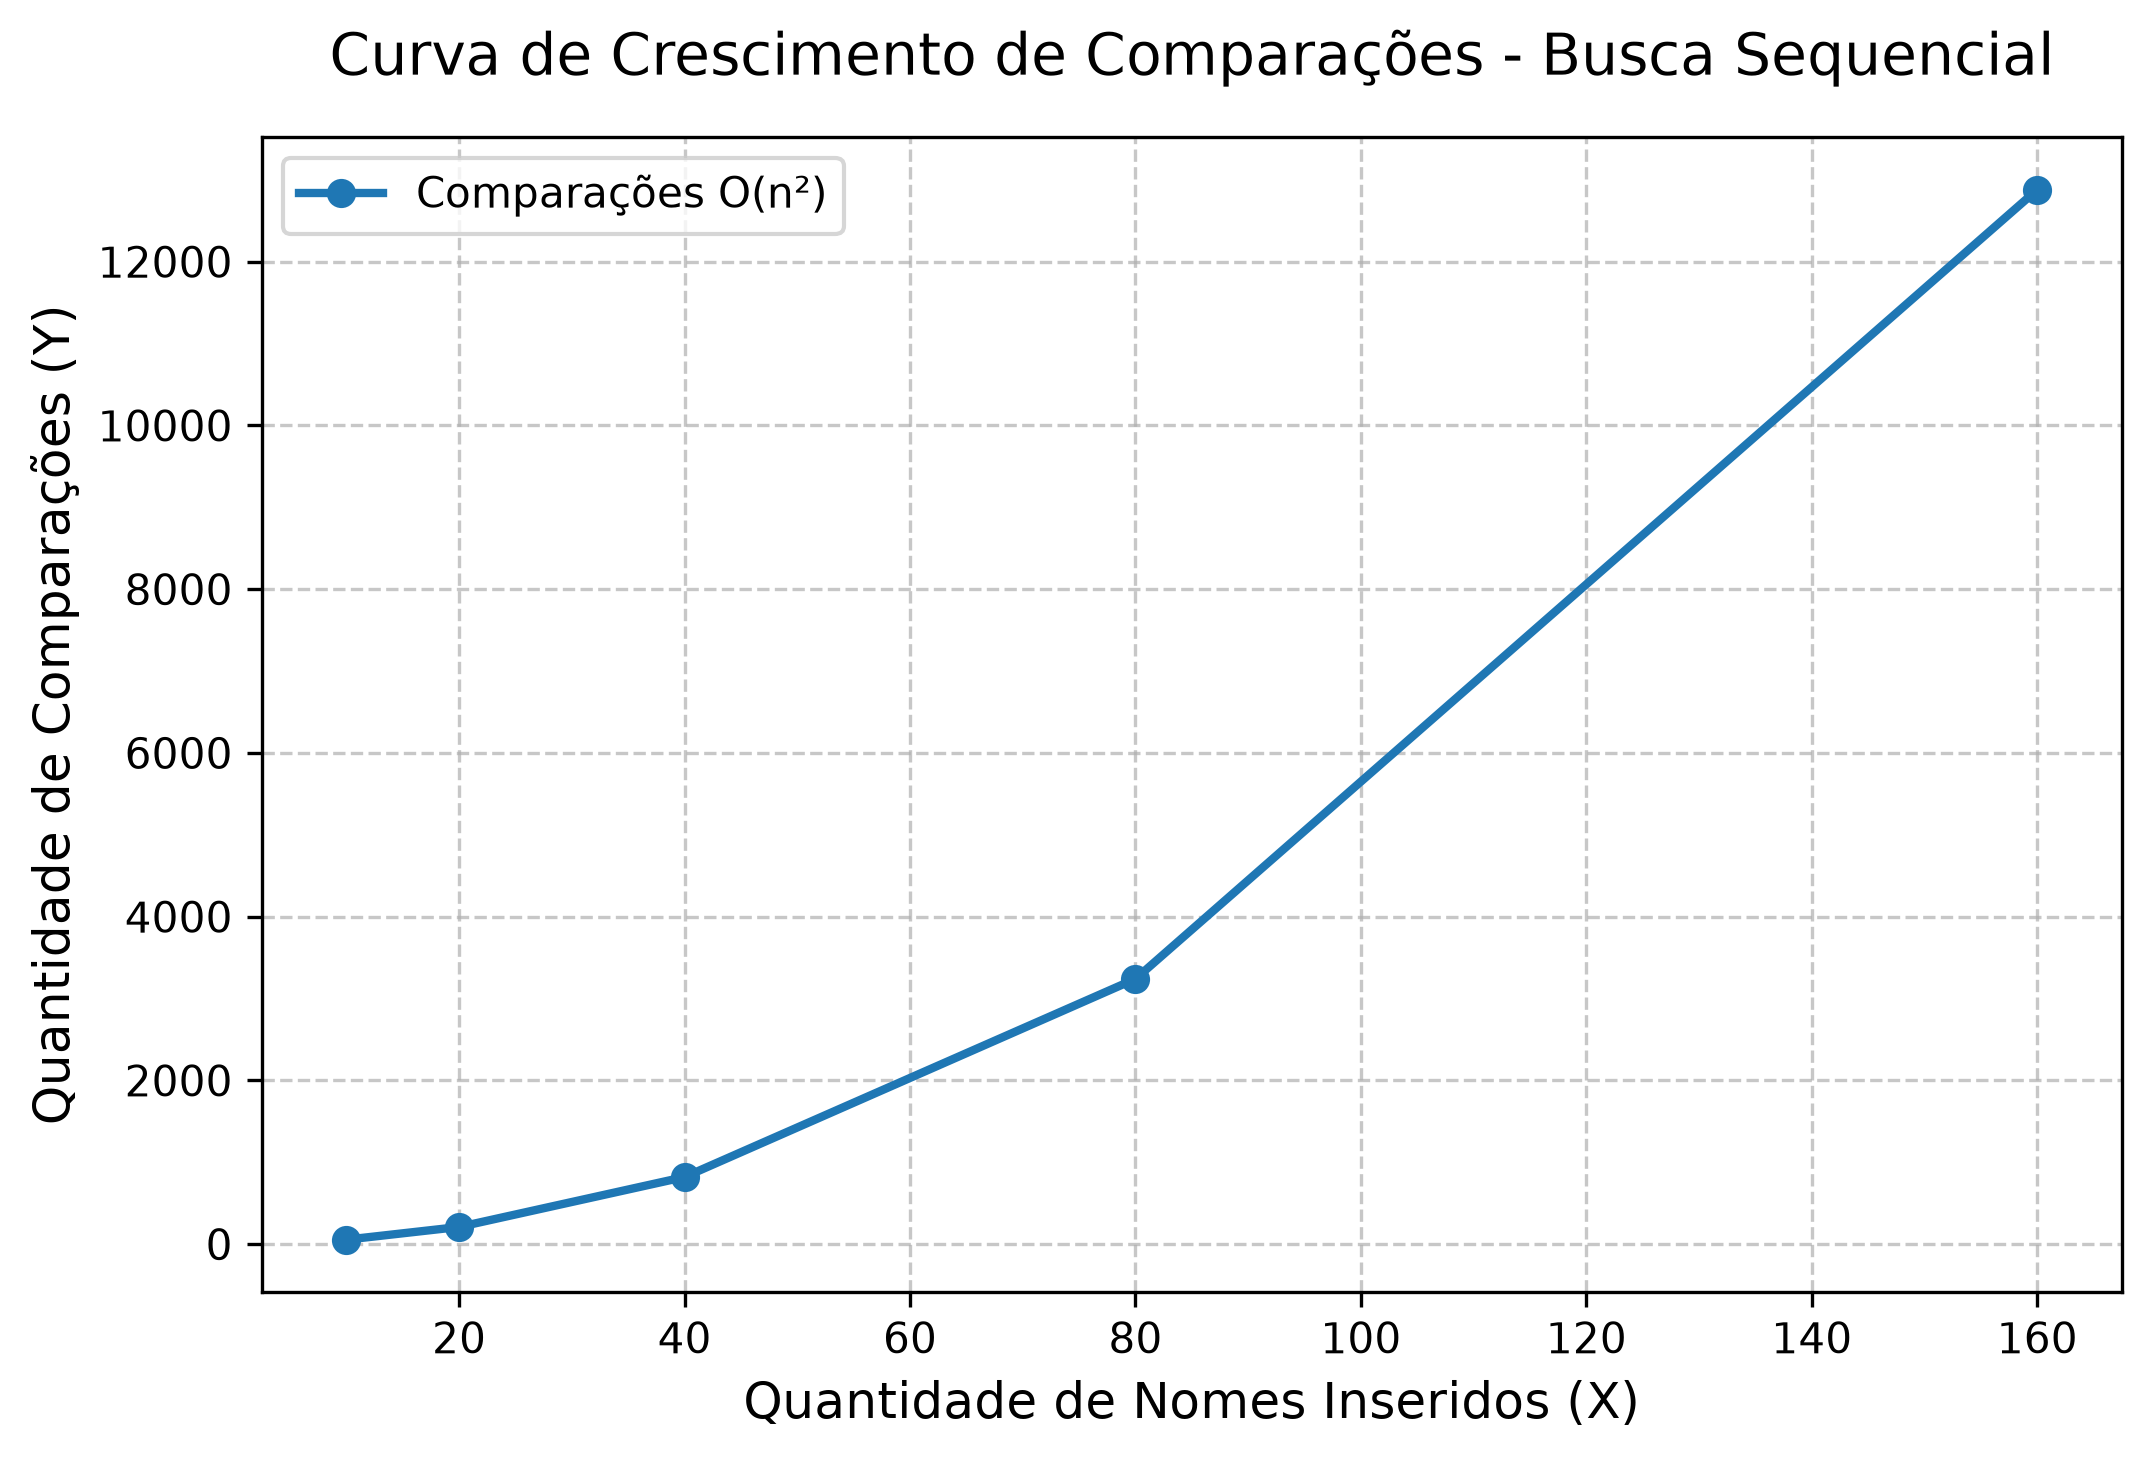
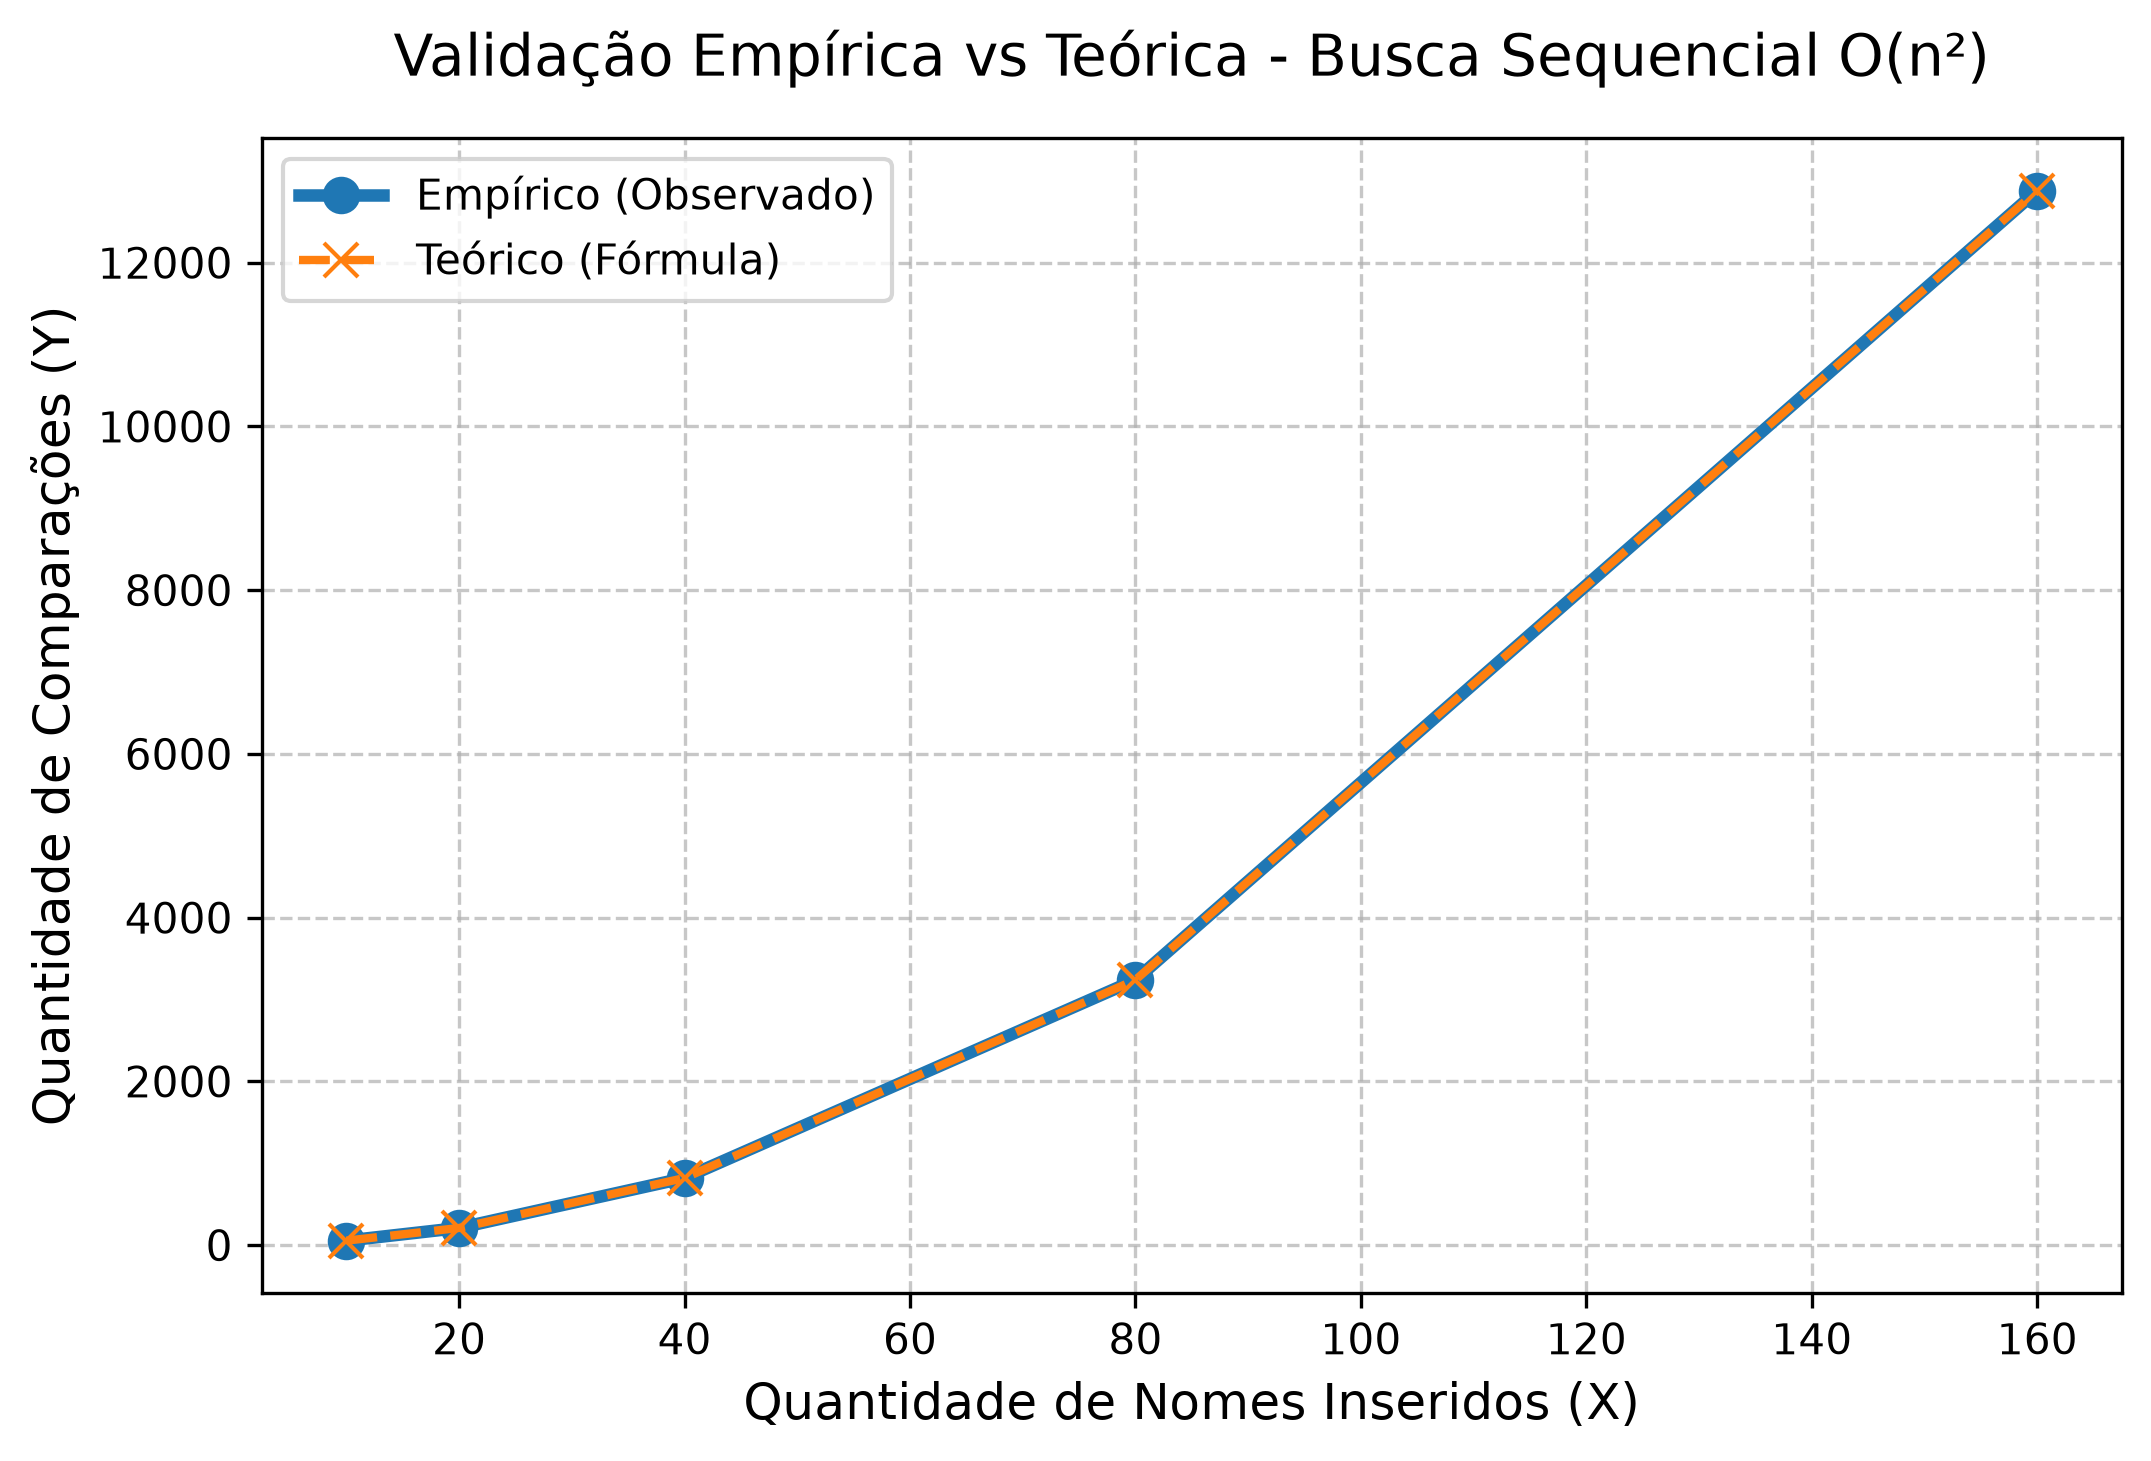
atualizacao do script do gerador_grafico.py e o grafico de complexidade gerado, assim como a tabela formatada para o relatorio

diff --git a/src/gerador_grafico.py b/src/gerador_grafico.py
@@ -4,28 +4,52 @@ import os
 
 os.makedirs('assets', exist_ok=True)
 
-dados = {
-    'Quantidade de Nomes': [10, 20, 40, 80, 160],
-    'Comparações Observadas': [55, 210, 820, 3240, 12880],
-    'Comparações Previstas': [55, 210, 820, 3240, 12880]
-}
+n_valores = [10, 20, 40, 80, 160]
+observadas = []
+previstas = []
 
+for n in n_valores:
+    caminho_arquivo = f'experimentos/estatisticas_{n}.csv'
+    
+    try:
+        df_estatistica = pd.read_csv(caminho_arquivo)
+        comparacoes_reais = df_estatistica['comparacoes'].iloc[0]
+        observadas.append(comparacoes_reais)
+    except FileNotFoundError:
+        print(f"Aviso: Arquivo {caminho_arquivo} não encontrado. Verifique a execução em C.")
+        observadas.append(0)
+
+    comparacoes_teoricas = n * (n + 1) // 2
+    previstas.append(comparacoes_teoricas)
+
+dados = {
+    'Quantidade de Nomes': n_valores,
+    'Comparações Observadas': observadas,
+    'Comparações Previstas': previstas,
+    'Diferença': [obs - prev for obs, prev in zip(observadas, previstas)]
+}
 df = pd.DataFrame(dados)
+
+print("Tabela formatada para o relatório:\n")
+print(df.to_markdown(index=False))
 
 plt.figure(figsize=(8, 5))
 
 plt.plot(df['Quantidade de Nomes'], df['Comparações Observadas'], 
-         marker='o', linestyle='-', color='#1f77b4', linewidth=2, markersize=6,
-         label='Comparações O(n²)')
+         marker='o', linestyle='-', color='#1f77b4', linewidth=3, markersize=8,
+         label='Empírico (Observado)')
 
-plt.title('Curva de Crescimento de Comparações - Busca Sequencial', fontsize=14, pad=15)
+plt.plot(df['Quantidade de Nomes'], df['Comparações Previstas'], 
+         marker='x', linestyle='--', color='#ff7f0e', linewidth=2, markersize=8,
+         label='Teórico (Fórmula)')
+
+plt.title('Validação Empírica vs Teórica - Busca Sequencial O(n²)', fontsize=14, pad=15)
 plt.xlabel('Quantidade de Nomes Inseridos (X)', fontsize=12)
 plt.ylabel('Quantidade de Comparações (Y)', fontsize=12)
-
 plt.grid(True, linestyle='--', alpha=0.7)
 plt.legend(fontsize=10)
 
 caminho_arquivo = 'assets/grafico_complexidade.png'
 plt.savefig(caminho_arquivo, dpi=300, bbox_inches='tight')
 
-print(f"Gráfico gerado e salvo com sucesso em: '{caminho_arquivo}'")
+print(f"\nGráfico dinâmico gerado e salvo com sucesso em: '{caminho_arquivo}'")
